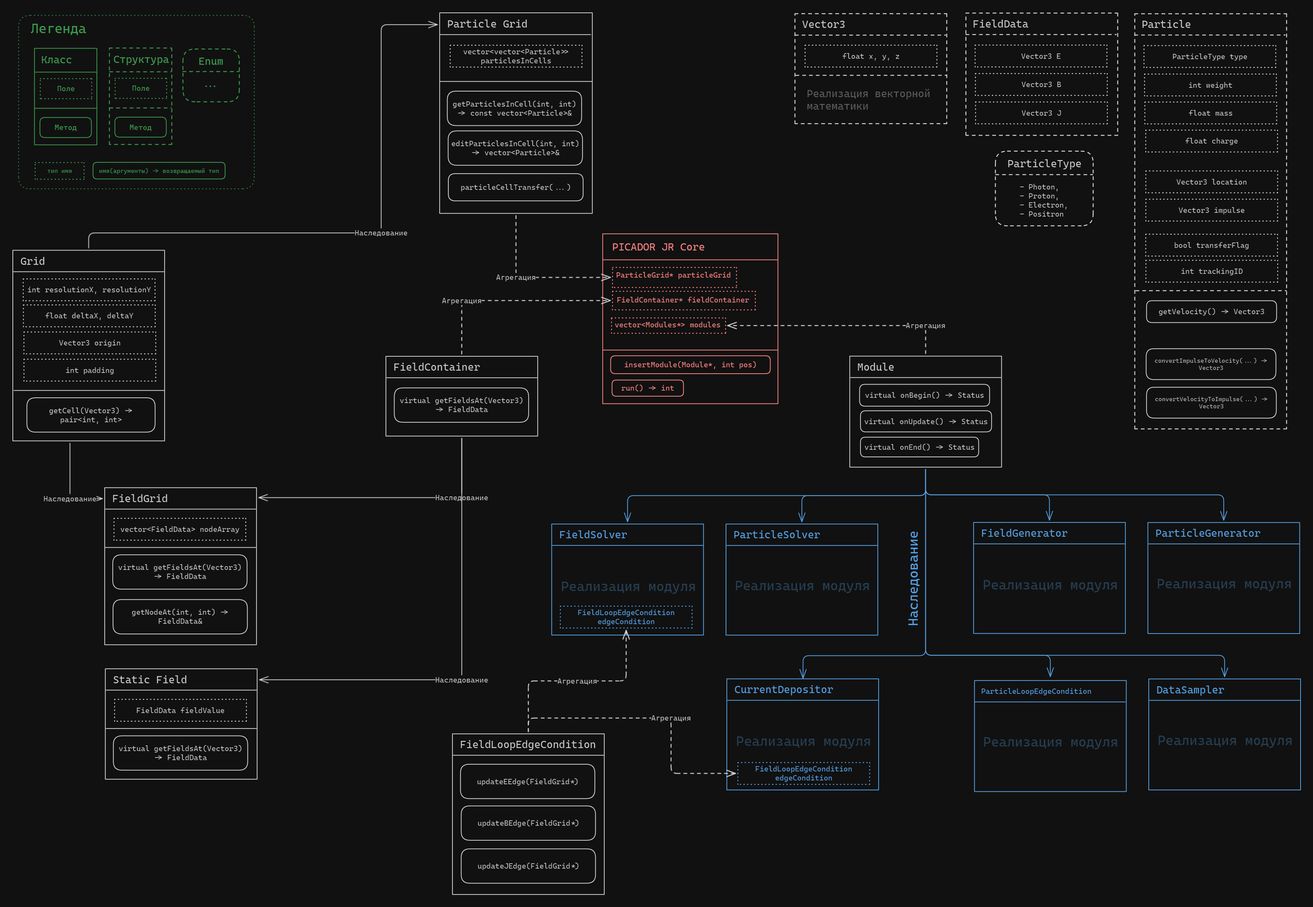
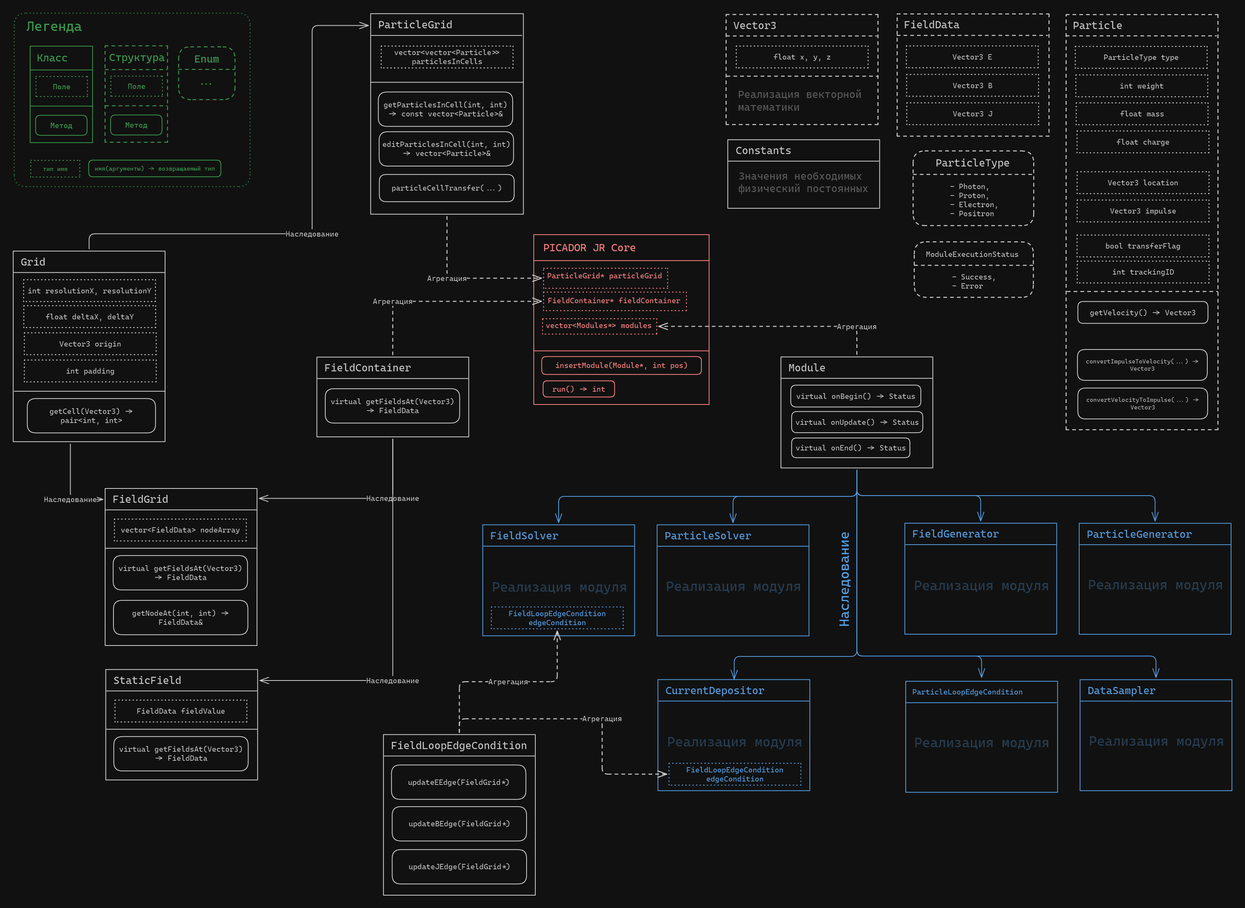
[DOCS] Main documentation & report WIP

diff --git a/Documentation/Report/Basic Architecture.md b/Documentation/Report/Basic Architecture.md
@@ -1,0 +1,73 @@
+#Report
+
+![](../Images/Architecture_LD_Dark.png)
+
+# Ядро
+
+Центральным элементом системы является **ядро** - `PicadorJrCore`. Ядро отвечает за обработку главного цикла симуляции, вызов основных методов модулей и предоставление им доступа к информации об электромагнитном поле и частицах.
+
+Ядро содержит указатели на используемый **контейнер поля** (`FieldContainer`) и **Сетку частиц** (`ParticleGrid`), а также список (массив) используемых модулей. Добавление модулей осуществляется посредством специального метода ядра - `insertModule()`.
+
+# Модули
+
+**Модули** - компоненты системы, осуществляющие все основные расчеты. Каждый реализованный модуль наследуется от абстрактного класса `Module`, содержащего три основных абстрактных метода `onBegin()`, `onUpdate()` и `onEnd()`, которые вызываются ядром до начала симуляции, каждую итерацию симуляции и после окончания симуляции соответственно. Каждый метод возвращает значение типа `ModuleExecutionStatus`, которое может принимать два значения: `Success` и `Error`. Если после вызова одного из методов модуль вернул значение `Error`, ядро исключает его из списка модулей и далее его не использует.
+
+Перечень реализованных в текущей версии модулей:
+1. `FieldSolver` - вычисляет и обновляет значения электромагнитного поля;
+2. `ParticleSolver` - вычисляет скорости частиц и обрабатывает их перемещение в пространтсве;
+3. `CurrentDepositor` - вычисляет и записывает в сетку значения токов, создаваемых движущимися частицам;
+4. `FieldGenerator` - генерирует начальные значения в сетке поля;
+5. `ParticleGenerator` - генерирует начальное положение и скорости частиц в соответсвии с заданными параметрами распределения;
+6. `ParticleLoopEdgeCondition` - циклические граничные условия для движения частиц;
+7. `DataSampler` - собирает информацию о состоянии физической системы на протяжении всей симуляции и записывает результаты в файлы.
+
+# Сетка
+
+**Сетка** (`Grid`) - базовый класс, содержащий основные параметры, необходимые для задания сетки: точку начала отсчета, число ячеек по обеим осям и размеры одной ячейки. Долнительно, реализован параметр `padding`, определяющий кол-во дополнительных ячеек по краям сетки. 
+
+Важно понимать, что класс `Grid` не содержит каких-либо структур для хранения данных в сетке. Это обусловлено тем, что в разных сетках (`ParticleGrid`, `FieldGrid`) данные хранятся в разных элементах сетки: в сетке частиц данные хранятся в ячейках, а в сетке поля - в узлах.
+
+# Электромагнитное поле
+
+Информация об электромагнитном поле в некоторой точке представляется структурой `FieldData`, содержащей три трехмерных векторных значения:
+* `E` - электрическое поле;
+* `B` - магнитное поле;
+* `J` - токи, создаваемые частицами.
+
+В такой форме информация о поле хранится в Контейнере поля. `FieldContainer` - абстрактный класс, являющийся базовым для всех контейнеров поля.
+
+В текущей версии реализованы два контейнера поля:
+* Статическое поле (`StaicField`);
+* Сетка поля (`FieldGrid`), содержащая информацию о множестве точек двумерного пространства (основной контейнер поля).
+
+# Частицы
+
+Данные об одной частице хранятся в структуре `Particle`, содержащей всю основную физическую информацию о типе чатицы (тип, масса, заряд), положении и движении частицы в пространтсве (положение и импульс), а также такие параметры как "вес", флаг перехода в другую ячейку и индекс отслеживания (для сбора данных о траектории частиц).
+
+Заметим, что вместо скорости в структуре `Particle` хранится импульс. Такое решение обусловлено формулами, используемыми в вычислениях движения частиц. Вместе со структурой предоставлены методы перевода импульса в скорость и обратно.
+
+Множество частиц (ансамбль) хранится в сетке частиц (`ParticleGrid`). В каждой ячейке сетки хранится массив содержащихся в ней частиц. При движении частицы могут покидать пределы своих ячеек, в таком случае они перекладывается в другие ячейки. Размеры ячеек должны выбираться в соответсвтии со следующим условием: за одну итерацию симуляции частица не может переместится дальше чем в соседнюю ячейку.
+
+Схема хранения частиц по ячейкам предназначена для эффективной параллельной обработки движения частиц, но в текущей версии программы такая возможность не реализована.
+
+# Другие структуры и классы
+
+### Vector3
+
+`Vector3` - структура, используемая для представления трехмерных векторов. В её реализацию входят все необходимые операции и функции веторной математики:
+* Сложение, вычитание;
+* Покомпонентное умножение и деление;
+* Умножение на число;
+* Скалярное произведение;
+* Векторное произведение;
+* Взятие длины вектора;
+* Нормализация (приведение к единичному вектору).
+
+### Constants
+
+`Constants` - класс, содержащий несколько статических полей, представляющих собой набор необходимых в вычислениях физических постоянных (в СГС):
+* Скорость света;
+* Масса электрона;
+* Заряд электрона;
+* Значение числа $\pi$.
+

diff --git a/Documentation/Modules/Particle Solver.md b/Documentation/Modules/Particle Solver.md
@@ -1,39 +1,99 @@
-#NeedsWriting
+#Module 
 
-Графики сходимости метода Бориса
+### Описание модуля
 
-*Горизонталь:   Временной Шаг (в сторону уменьшения)
-*Вертикаль:     Абсольтная ошибка;
+Модуль `Particle Solver` предназначен для:
+* Интегрирования уравнений движения частиц по методу Бориса;
+* Обработки перемещения частиц между ячейками сетки частиц (`ParticleGrid`).
 
-**Тест Релятевистское усорение в статическом поле"
+### Конфигурация модуля
+
+-
+### Принцип работы
+
+#### Определения
+
+Решается задача численного моделирования динамики заряженных частиц в электромагнитном поле.
+
+**Заряженная частица** определяется следующими параметрами:
+* $q$ - заряд (скаляр);
+* $m$ - масса (скаляр);
+* $\vec{r}$ - текущее положение в пространстве (3-х мерный вектор);
+* $\vec{v}$ - текущая скорость (3-х мерный вектор);
+* $\vec{p}$ - импульс частицы (3-х мерный вектор).
+
+Скорость $\vec{v}$ и импульс $\vec{p}$ равны по направлению, а их модули в релятивистском случае однозначно связаны формулой
+$$ v = \dfrac{p}{m} \left( 1 + \left( \dfrac{p}{mc} \right)^2 \right)^{-\dfrac{1}{2}}, $$
+где $c$ - скорость света в вакууме.
+
+В данном случае решается двумерная версия задачи, поэтому третьи компоненты векторов $\vec{r},$ $\vec{v}$ и $\vec{p}$ считаются равными нулю.
+
+**Электромагнитное поле** определяется тремя 2-х мерными векторами:
+* $\vec{E}$ - значение электрического поля;
+* $\vec{B}$ - значение магнитного поля.
+
+#### Начальные условия
+
+В начальный момент времени ($t = 0$) для каждой частицы определены:
+* $q$ - заряд и $m$ - масса;
+* $\vec{r}_0$ - начальное положение в пространстве;
+* $\vec{v_0}$ - начальная скорость частицы.
+
+#### Шаг симуляции
+
+На каждой итерации симуляции новое положение каждой частицы высчитывается по формуле
+$$ \vec{r}_{new} = \vec{r}_{old} + \vec{v}_{new} \ \Delta t, $$
+где $\Delta t$ - шаг по времени между итерациями.
+
+Следовательно, на каждой новой итерации необходимо вычислять новую скорость частицы на основании данных с предыдущей итерации и значений поля в местеположения частицы. Для этого используют **схему Бориса**.
+
+$$ \vec{p}_{new} = mc \ \cdot \ \vec{u}_{new}; $$
+$$ \vec{u}_{new} = \vec{u}^{(+)} + \dfrac{q\Delta t}{2mc}; $$
+$$ \vec{u}^{(+)} = \vec{u}^{(-)} + \vec{u}^{\ `} \ \times \vec{s};$$
+$$ \vec{s} = \vec{t} \cdot \dfrac{2}{1 + | \ \vec{t} \ |^2}; $$
+$$ \vec{u}^{\ `} = \vec{u}^{(-)} + \vec{u}^{(-)} \ \times \ \vec{t}; $$
+$$ \vec{t} = \vec{B} \cdot \dfrac{q \Delta t }{2 \cdot \gamma_{old} \ \cdot mc }; $$
+$$
+\vec{u}^{(-)} = \vec{u}_{old} + \vec{E} \cdot \dfrac{q \Delta t}{2mc};
+$$
+$$ \gamma_{old} = \sqrt{1 + | \ \vec{u}_{old} \ |^2 }; $$
+$$ \vec{u}_{old} = \vec{p}_{old} \cdot \dfrac{1}{mc}. $$
+Таким образом, схема Бориса преобразует имульс частицы $\vec{p}_{old}$ с предыдущей итерации в новое значение $\vec{p}_{new}$ - имульс частицы на текущей итерации. Переведя имульс $\vec{p}_{new}$ в скорость $\vec{v}_{new}$ , можем получить новое положение частицы $\vec{r}_{new}$ .
+
+### Реализация
+
+Метод `onUpdate()`, вызываемый ядром каждую итерацию симуляции, проходит по всем ячейкам сетки частиц, внутри каждой ячейки - по всем частицам. Обновление каждой частицы происходит в следующем порядке:
+
+1. Из предоставляемого ядром контейнера поля берётся значение электромагнитного поля в точке 
+
+### Тестирование
+
+#### Графики сходимости метода Бориса
+
+*Горизонталь: Временной Шаг (в сторону уменьшения)
+*Вертикаль: Абсолютная ошибка;
+
+##### Тест релятивистское ускорение в статическом поле
 
 ![](../Images/BorisA_L.png)
-![](../Images/BorisA_V.png)
 
 
-**Тест Осциляция в статическом поле"
+##### Тест Осцилляция в статическом поле
 
 ![](../Images/BorisO_L.png)
-![](../Images/BorisO_V.png)
+
+![](../Images/Trajectory_O.png)
 
 
+##### Траектории
+
+![](../Images/TrajectoryExample.png)
 
 ![](../Images/BorisTrajectoryExplanation.png)
 
 
-
-
-c * dt / dx < 1
-
-![](../Images/TrajectoryExample.png)
-
-
-
-
-![](../Images/Trajectory_O.png)
-
-![](../Images/Trajectory_OE.png)
-
-![](../Images/Trajectory_Catapiller.png)
-
-![](../Images/Trajectory_Loop.png)
+### Ссылки:
+* [Particle](../Basic/Particle.md)
+* [Particle Grid](../Basic/Particle%20Grid.md)
+* [Module](../Basic/Module.md)
+* [Boris Trajectory Experiment](../Experiments/Boris%20Trajectory%20Experiment.md)

diff --git a/Documentation/Basic/Module.md b/Documentation/Basic/Module.md
@@ -1,1 +1,12 @@
-#NeedsWriting
+
+**Модули** - компоненты системы, осуществляющие все основные расчеты. Каждый реализованный модуль наследуется от абстрактного класса `Module`, содержащего три основных абстрактных метода `onBegin()`, `onUpdate()` и `onEnd()`, которые вызываются ядром до начала симуляции, каждую итерацию симуляции и после окончания симуляции соответственно. Каждый метод возвращает значение типа `ModuleExecutionStatus`, которое может принимать два значения: `Success` и `Error`. Если после вызова одного из методов модуль вернул значение `Error`, ядро исключает его из списка модулей и далее его не использует.
+
+Перечень реализованных в текущей версии модулей:
+1. `FieldSolver` - вычисляет и обновляет значения электромагнитного поля;
+2. `ParticleSolver` - вычисляет скорости частиц и обрабатывает их перемещение в пространтсве;
+3. `CurrentDepositor` - вычисляет и записывает в сетку значения токов, создаваемых движущимися частицам;
+4. `FieldGenerator` - генерирует начальные значения в сетке поля;
+5. `ParticleGenerator` - генерирует начальное положение и скорости частиц в соответсвии с заданными параметрами распределения;
+6. `ParticleLoopEdgeCondition` - циклические граничные условия для движения частиц;
+7. `DataSampler` - собирает информацию о состоянии физической системы на протяжении всей симуляции и записывает результаты в файлы.
+

diff --git a/Documentation/Basic/Particle.md b/Documentation/Basic/Particle.md
@@ -1,1 +1,10 @@
-#NeedsWriting
+
+Данные об одной частице хранятся в структуре `Particle`, содержащей всю основную физическую информацию о типе чатицы (тип, масса, заряд), положении и движении частицы в пространтсве (положение и импульс), а также такие параметры как "вес", флаг перехода в другую ячейку и индекс отслеживания (для сбора данных о траектории частиц).
+
+Заметим, что вместо скорости в структуре `Particle` хранится импульс. Такое решение обусловлено формулами, используемыми в вычислениях движения частиц. Вместе со структурой предоставлены методы перевода импульса в скорость и обратно.
+
+Данные о частицах в таком формате хранятся в сетке частиц - `ParticleGrid`.
+
+### Ссылки
+* [Particle Grid](Particle%20Grid.md)
+* [Vector3](Vector3.md)

diff --git a/Documentation/Basic/Grid.md b/Documentation/Basic/Grid.md
@@ -1,3 +1,10 @@
-#NeedsWriting 
+
+**Сетка** (`Grid`) - базовый класс, содержащий основные параметры, необходимые для задания сетки: точку начала отсчета, число ячеек по обеим осям и размеры одной ячейки. Долнительно, реализован параметр `padding`, определяющий кол-во дополнительных ячеек по краям сетки. 
+
+Важно понимать, что класс `Grid` не содержит каких-либо структур для хранения данных в сетке. Это обусловлено тем, что в разных сетках (`ParticleGrid`, `FieldGrid`) данные хранятся в разных элементах сетки: в сетке частиц данные хранятся в ячейках, а в сетке поля - в узлах.
 
 ![](../Images/Grid.png)
+
+### Ссылки:
+* [Field Grid](Field%20Grid.md)
+* [Particle Grid](Particle%20Grid.md)

diff --git a/Documentation/Basic/Field Container.md b/Documentation/Basic/Field Container.md
@@ -1,1 +1,14 @@
-#NeedsWriting
+
+Информация об электромагнитном поле в некоторой точке представляется структурой `FieldData`, содержащей три трехмерных векторных значения:
+* `E` - электрическое поле;
+* `B` - магнитное поле;
+* `J` - токи, создаваемые частицами.
+
+В такой форме информация о поле хранится в Контейнере поля. `FieldContainer` - абстрактный класс, являющийся базовым для всех контейнеров поля.
+
+В текущей версии реализованы два контейнера поля:
+* Статическое поле (`StaicField`);
+* Сетка поля (`FieldGrid`), содержащая информацию о множестве точек двумерного пространства (основной контейнер поля).
+
+### Ссылки:
+* [Field Grid](Field%20Grid.md)

diff --git a/Documentation/Basic/Particle Grid.md b/Documentation/Basic/Particle Grid.md
@@ -1,1 +1,4 @@
-#NeedsWriting
+
+Множество частиц (ансамбль) хранится в сетке частиц (`ParticleGrid`). В каждой ячейке сетки хранится массив содержащихся в ней частиц. При движении частицы могут покидать пределы своих ячеек, в таком случае они перекладывается в другие ячейки. Размеры ячеек должны выбираться в соответсвтии со следующим условием: за одну итерацию симуляции частица не может переместится дальше чем в соседнюю ячейку.
+
+Схема хранения частиц по ячейкам предназначена для эффективной параллельной обработки движения частиц, но в текущей версии программы такая возможность не реализована.

diff --git a/Documentation/Basic/PICADOR Jr Core.md b/Documentation/Basic/PICADOR Jr Core.md
@@ -1,1 +1,9 @@
-#NeedsWriting
+
+Центральным элементом системы является **ядро** - `PicadorJrCore`. Ядро отвечает за обработку главного цикла симуляции, вызов основных методов модулей и предоставление им доступа к информации об электромагнитном поле и частицах.
+
+Ядро содержит указатели на используемый **контейнер поля** (`FieldContainer`) и **Сетку частиц** (`ParticleGrid`), а также список (массив) используемых модулей. Добавление модулей осуществляется посредством специального метода ядра - `insertModule()`.
+
+### Ссылки:
+* [Module](Module.md)
+* [Field Container](Field%20Container.md)
+* [Particle Grid](Particle%20Grid.md)

diff --git a/Documentation/Documentation.md b/Documentation/Documentation.md
@@ -17,6 +17,7 @@
 	* [Grid](Basic/Grid.md)
 	* [Field Container](Basic/Field%20Container.md)
 	* [Field Grid](Basic/Field%20Grid.md)
+	* [Field Edge Condition](Basic/Field%20Edge%20Condition.md)
 	* [Particle](Basic/Particle.md)
 	* [Particle Grid](Basic/Particle%20Grid.md)
 	* [Vector3](Basic/Vector3.md)
@@ -26,7 +27,10 @@
 	* [Field Solver](Modules/Field%20Solver.md)
 	* [Particle Solver](Modules/Particle%20Solver.md)
 	* [Current Depositor](Modules/Current%20Depositor.md)
-	* [Loop Edge Condition](Modules/Loop%20Edge%20Condition.md)
+	* [Particle Loop Edge Condition](Modules/Particle%20Loop%20Edge%20Condition.md)
+	* [Particle Generator](Modules/Particle%20Generator.md)
+	* [Field Generator](Modules/Field%20Generator.md)
+	* [Data Sampler](Modules/Data%20Sampler.md)
 
 * Эксперименты:
 	* [Boris Trajectory Experiment](Experiments/Boris%20Trajectory%20Experiment.md)

diff --git a/Documentation/Basic/Vector3.md b/Documentation/Basic/Vector3.md
@@ -1,1 +1,9 @@
-#NeedsWriting
+
+`Vector3` - структура, используемая для представления трехмерных векторов. В её реализацию входят все необходимые операции и функции векторной математики:
+* Сложение, вычитание;
+* Покомпонентное умножение и деление;
+* Умножение на число;
+* Скалярное произведение;
+* Векторное произведение;
+* Взятие длины вектора;
+* Нормализация (приведение к единичному вектору).

diff --git a/Documentation/Basic/Constants.md b/Documentation/Basic/Constants.md
@@ -1,1 +1,5 @@
-#NeedsWriting
+`Constants` - класс, содержащий несколько статических полей, представляющих собой набор необходимых в вычислениях физических постоянных (в СГС):
+* Скорость света;
+* Масса электрона;
+* Заряд электрона;
+* Значение числа $\pi$.

diff --git a/Documentation/Modules/Particle Loop Edge Condition.md b/Documentation/Modules/Particle Loop Edge Condition.md
@@ -1,1 +1,3 @@
+#Module #NeedsWriting 
+
 ![](../Images/Loop%20Edge%20Condition.png)
